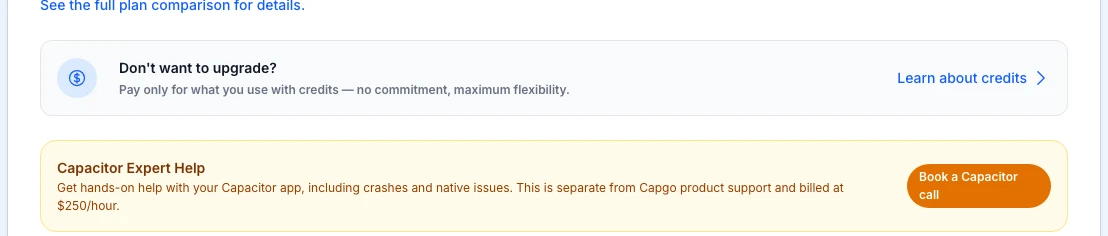
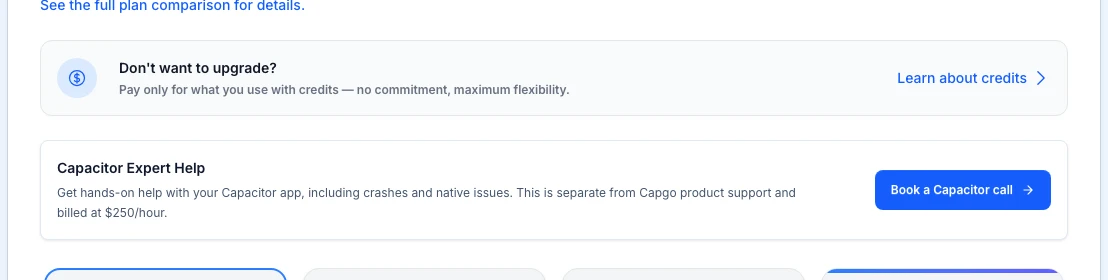
fix(console): polish expert help CTA

diff --git a/src/pages/settings/organization/Plans.vue b/src/pages/settings/organization/Plans.vue
@@ -506,22 +506,23 @@ function buttonStyle(p: Database['public']['Tables']['plans']['Row']) {
 
       <!-- Expert as a Service CTA -->
       <div v-if="!isMobile" class="mb-6 shrink-0">
-        <div class="flex flex-col gap-3 p-4 border border-amber-200 bg-amber-50 rounded-2xl text-amber-900 dark:border-amber-800/50 dark:bg-amber-900/20 dark:text-amber-100 sm:flex-row sm:items-center sm:justify-between">
-          <div>
-            <p class="text-sm font-semibold">
+        <div class="flex flex-col gap-4 rounded-lg border border-slate-200 bg-white p-4 shadow-sm dark:border-slate-700 dark:bg-slate-900/70 sm:flex-row sm:items-center sm:justify-between">
+          <div class="min-w-0 flex-1">
+            <p class="text-sm font-semibold text-slate-900 dark:text-white">
               {{ t('expert-service-title') }}
             </p>
-            <p class="text-xs text-amber-800 dark:text-amber-200">
+            <p class="mt-1 max-w-3xl text-xs leading-5 text-slate-600 dark:text-slate-300">
               {{ t('expert-service-desc') }}
             </p>
           </div>
           <a
-            class="inline-flex items-center gap-2 px-3 py-1 text-xs font-semibold text-white rounded-full bg-amber-600 hover:bg-amber-700"
+            class="d-btn d-btn-sm h-auto min-h-10 w-full shrink-0 justify-center gap-2 whitespace-nowrap rounded-lg border-none bg-blue-600 px-4 text-xs font-semibold text-white hover:bg-blue-700 dark:bg-blue-500 dark:hover:bg-blue-600 sm:w-auto"
             href="https://capgo.app/premium-support/"
             rel="noopener noreferrer"
             target="_blank"
           >
             {{ t('expert-service-cta') }}
+            <IconArrowRight class="h-3.5 w-3.5" aria-hidden="true" />
           </a>
         </div>
       </div>